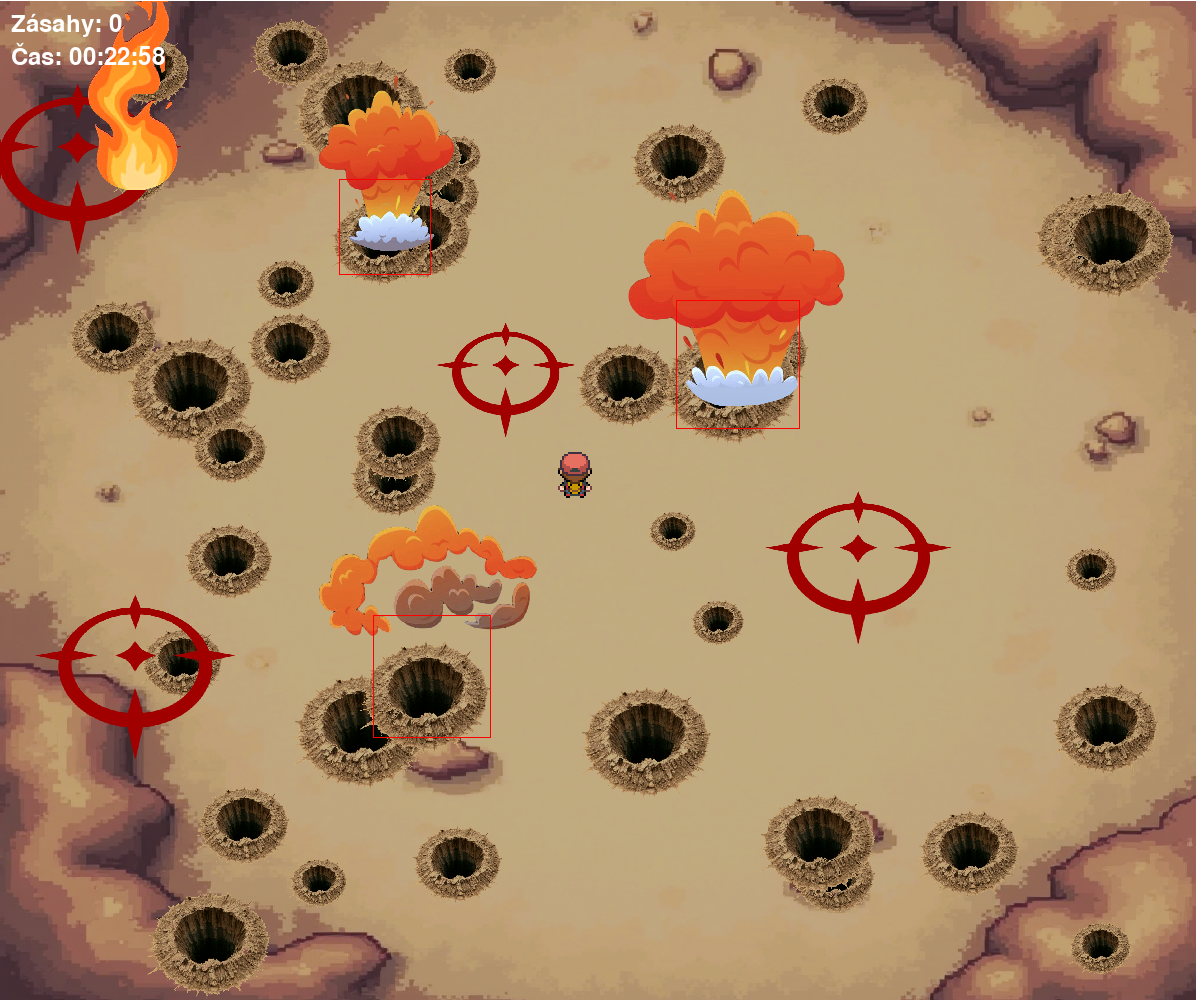
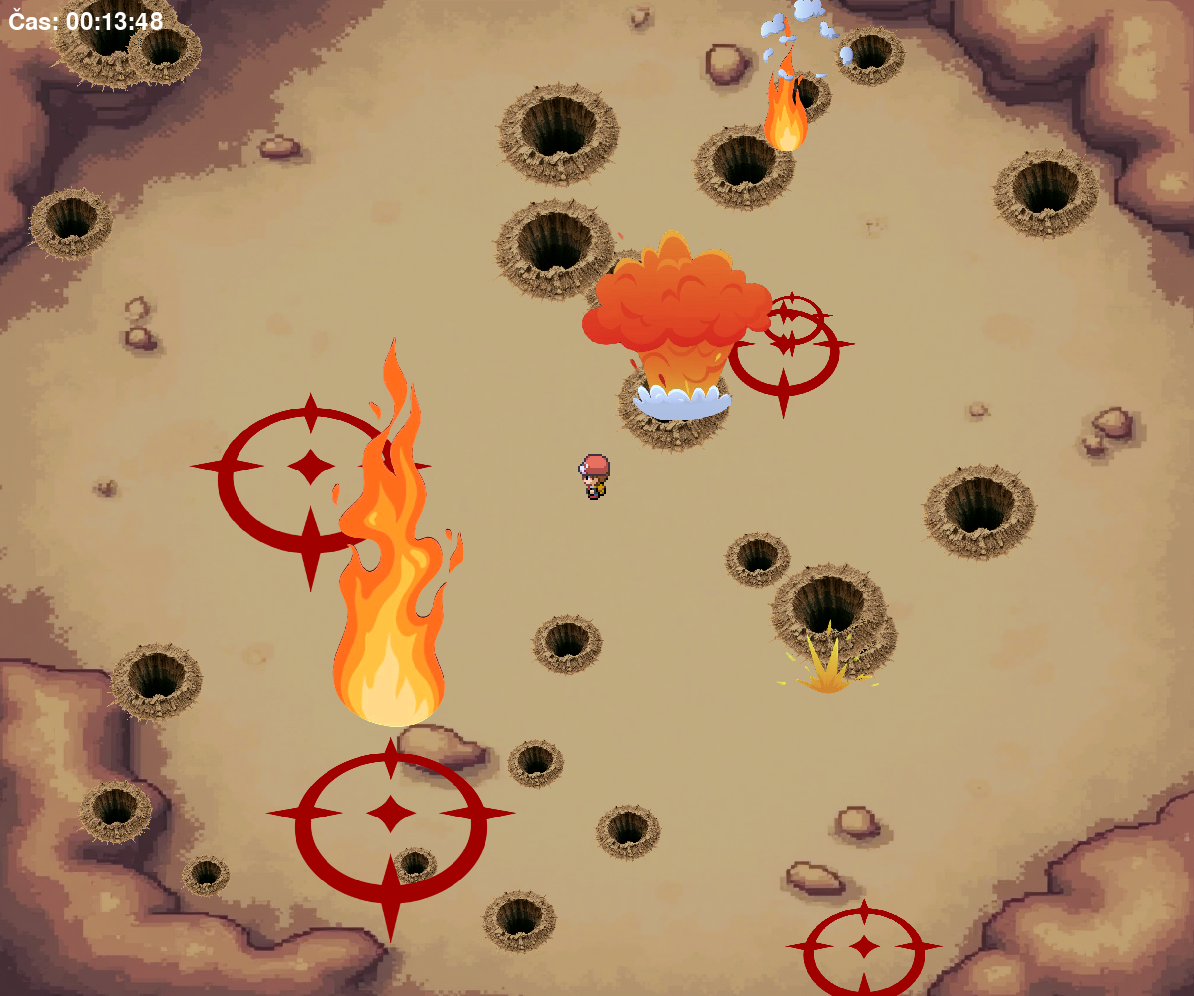
skull

diff --git a/explosion.py b/explosion.py
@@ -44,26 +44,28 @@ class Explosion:
             elif self.frame == 3:
                 self.crater_created = True
 
+    def get_offset_rect(self):
+        offset_rect = self.rect.copy()
+        offset_rect.x -= self.rect.width * self.posun_x  # Posun více vlevo
+        offset_rect.y -= self.rect.height * self.posun_y  # Posun ještě více nahoru
+        return offset_rect
+
     def draw(self, screen):
         if not self.finished:
-            offset_rect = self.rect.copy()
-            offset_rect.x -= self.rect.width * self.posun_x  # Posun více vlevo
-            offset_rect.y -= self.rect.height * self.posun_y  # Posun ještě více nahoru
+            offset_rect = self.get_offset_rect()
             screen.blit(self.frames[self.frame], offset_rect)
            # pygame.draw.rect(screen, (255, 255, 255), offset_rect, 1)  # Vykreslení hitboxu exploze
 
             # Vykreslení hitboxů pro kontrolu
-            explosion_hitbox = pygame.Rect(offset_rect.x + offset_rect.width // 6, offset_rect.y + offset_rect.height // 6, offset_rect.width * 2 // 3, offset_rect.height * 2 // 3)
-            explosion_hitbox.y += explosion_hitbox.height // 2  # Posun hitboxu o půl výšky dolů
-            explosion_hitbox.inflate_ip(-explosion_hitbox.width // 4, -explosion_hitbox.height // 4)  # Zmenšení hitboxu o 1/4
-            pygame.draw.rect(screen, (255, 0, 0), explosion_hitbox, 1)  # Vykreslení hitboxu exploze
+            #explosion_hitbox = pygame.Rect(offset_rect.x + offset_rect.width // 6, offset_rect.y + offset_rect.height // 6, offset_rect.width * 2 // 3, offset_rect.height * 2 // 3)
+            #explosion_hitbox.y += explosion_hitbox.height // 2  # Posun hitboxu o půl výšky dolů
+            #explosion_hitbox.inflate_ip(-explosion_hitbox.width // 4, -explosion_hitbox.height // 4)  # Zmenšení hitboxu o 1/4
+            #pygame.draw.rect(screen, (255, 0, 0), explosion_hitbox, 1)  # Vykreslení hitboxu exploze
 
     def has_collided(self, character):
         if self.hit_detected or self.frame > 4:
             return False
-        offset_rect = self.rect.copy()
-        offset_rect.x -= self.rect.width * self.posun_x  # Posun více vlevo
-        offset_rect.y -= self.rect.height * self.posun_y  # Posun ještě více nahoru
+        offset_rect = self.get_offset_rect()
         explosion_hitbox = pygame.Rect(offset_rect.x + offset_rect.width // 6, offset_rect.y + offset_rect.height // 6, offset_rect.width * 2 // 3, offset_rect.height * 2 // 3)
         explosion_hitbox.y += explosion_hitbox.height // 2  # Posun hitboxu o půl výšky dolů
         explosion_hitbox.inflate_ip(-explosion_hitbox.width // 4, -explosion_hitbox.height // 4)  # Zmenšení hitboxu o 1/4

diff --git a/main.py b/main.py
@@ -18,6 +18,8 @@ pygame.display.set_caption("Falling Star !")
 background = pygame.image.load('media/background.png')
 background = pygame.transform.scale(background, (SCREEN_WIDTH, SCREEN_HEIGHT))
 blood_screen = pygame.image.load('media/blood_screen.png').convert_alpha()
+skull_image = pygame.image.load('media/skull.png').convert_alpha()
+skull_image = pygame.transform.scale(skull_image, (90, 90))  # Zvětšení velikosti lebky třikrát
 
 # Inicializace fontu
 font = pygame.font.Font(None, 36)
@@ -34,6 +36,12 @@ def draw_text(surface, text, font, color, x, y):
     # Vykreslení černého obdélníku pod textem
     pygame.draw.rect(surface, (0, 0, 0), text_rect.inflate(20, 10))
     surface.blit(text_surface, text_rect)
+
+def format_time(elapsed_time):
+    minutes = elapsed_time // 60000
+    seconds = (elapsed_time % 60000) // 1000
+    milliseconds = (elapsed_time % 1000) // 10
+    return f"{minutes:02}:{seconds:02}:{milliseconds:02}"
 
 def main_menu():
     # Načtení a škálování pozadí
@@ -168,17 +176,14 @@ def main_game():
             scaled_blood_screen = pygame.transform.scale(blood_screen, (SCREEN_WIDTH, SCREEN_HEIGHT))
             surface.blit(scaled_blood_screen, (0, 0))
 
-        # Vykreslení počítadla zásahů
-        hit_count_text = font.render(f"Zásahy: {hit_count}", True, (255, 255, 255))
-        surface.blit(hit_count_text, (10, 10))
-
         # Vykreslení času od spuštění hry
         elapsed_time = pygame.time.get_ticks() - start_time
-        minutes = elapsed_time // 60000
-        seconds = (elapsed_time % 60000) // 1000
-        milliseconds = (elapsed_time % 1000) // 10
-        time_text = font.render(f"Čas: {minutes:02}:{seconds:02}:{milliseconds:02}", True, (255, 255, 255))
-        surface.blit(time_text, (10, 40))
+        time_text = font.render(f"Čas: {format_time(elapsed_time)}", True, (255, 255, 255))
+        surface.blit(time_text, (10, 10))
+
+        # Vykreslení lebek za každý zásah
+        for i in range(hit_count):
+            surface.blit(skull_image, (10 + i * 60, 40))  # Posun lebek o 100 pixelů doprava a 80 pixelů dolů
 
         # Aplikace otřesů na celý povrch
         shake_x, shake_y = apply_shake_effect(SHAKE_INTENSITY)
@@ -187,7 +192,7 @@ def main_game():
         pygame.display.flip()
         clock.tick(FPS)
 
-    final_time = f"{minutes:02}:{seconds:02}:{milliseconds:02}"
+    final_time = format_time(elapsed_time)
     return final_time
 
 def main():
